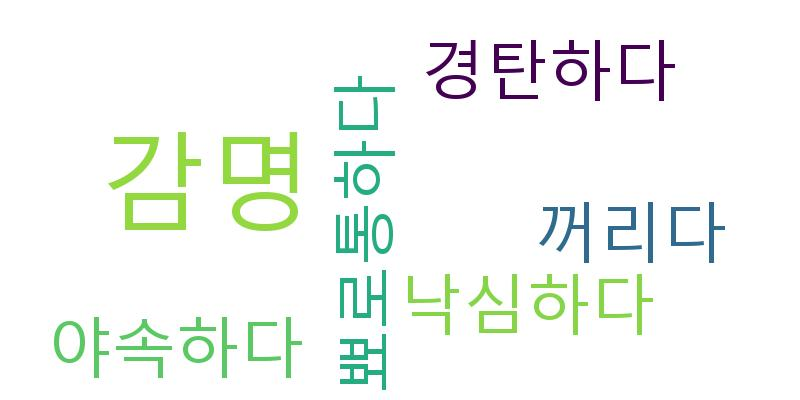
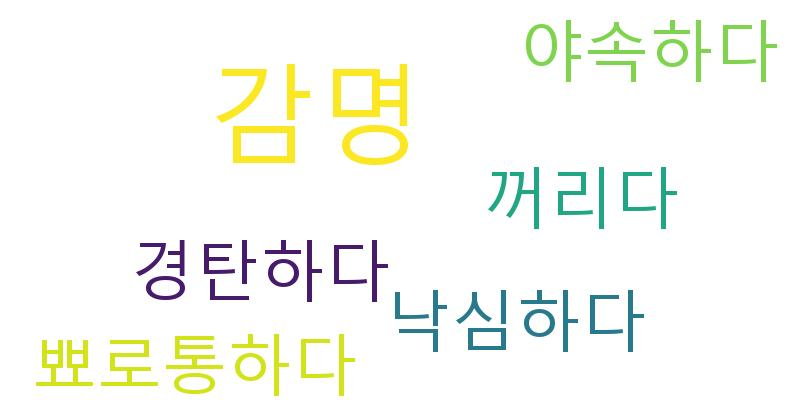
워드클라 수정

Changed region(s): [[0.0312, 0.03, 0.9688, 1.0], [0.5938, 0.42, 0.9062, 0.66]]

diff --git a/emotion_classification_api/data_fetcher.py b/emotion_classification_api/data_fetcher.py
@@ -45,29 +45,33 @@ def load_chat_history_from_db(croom_idx: int, session_idx: int):
 # 워드 클라우드를 생성하고 이미지 파일로 저장하는 함수
 def fetch_chat_data_and_generate_wordcloud(croom_idx: int) -> str:
     try:
-        # static_dir 값을 출력하여 확인
         print(f"Static directory path in fetcher.py: {static_dir}")
-        
-        # croom_idx에 해당하는 모든 채팅 기록 가져오기
+
+        # croom_idx에 해당하는 bot의 채팅 기록 가져오기
         chat_history = get_chat_history_by_croom(croom_idx)
         if not chat_history:
             raise ValueError("No chat history available for the given croom_idx.")
-        
-        # 모든 대화 내용을 하나의 텍스트로 결합
-        chat_texts = " ".join([entry[1] for entry in chat_history])
+
+        # emotion_keyword만 추출하여 텍스트로 결합
+        emotion_keywords = " ".join([entry[2] for entry in chat_history if entry[2]])  # entry[2]는 emotion_keyword
+        if not emotion_keywords.strip():
+            raise ValueError("No emotion keywords found for the given chat history.")
 
         # 워드 클라우드 생성
-        wordcloud = WordCloud(width=800, height=400, font_path="c:/Windows/Fonts/malgun.ttf", background_color='white').generate(chat_texts)
-        
-        # static_dir 변수를 사용하여 절대 경로 생성
+        wordcloud = WordCloud(
+            width=800,
+            height=400,
+            font_path="c:/Windows/Fonts/malgun.ttf",
+            background_color='white'
+        ).generate(emotion_keywords)
+
+        # 워드클라우드 이미지 저장
         wordcloud_dir = os.path.join(static_dir, "wordclouds")
         os.makedirs(wordcloud_dir, exist_ok=True)
         image_path = os.path.join(wordcloud_dir, f"wordcloud_{croom_idx}.jpg")
         wordcloud.to_file(image_path)
 
-        # 경로 확인 출력
         print(f"Word cloud image path: {image_path}")
-        
         return image_path
 
     except Exception as e:

diff --git a/emotion_classification_api/database_service.py b/emotion_classification_api/database_service.py
@@ -67,9 +67,12 @@ def get_chat_history_by_croom(croom_idx):
             """)
             results = connection.execute(query, {"croom_idx": croom_idx}).mappings().fetchall()
             
-            # emotion_keyword 포함하여 반환
+            # 반환 데이터 디버깅
+            print(f"Raw results fetched: {results}")
+
+            # emotion_keyword가 없는 경우 기본값 추가
             chat_history = [
-                (row['chatter'], row['chat_content'], row['emotion_keyword'])
+                (row['chatter'], row['chat_content'], row.get('emotion_keyword', ''))
                 for row in results
             ]
 
